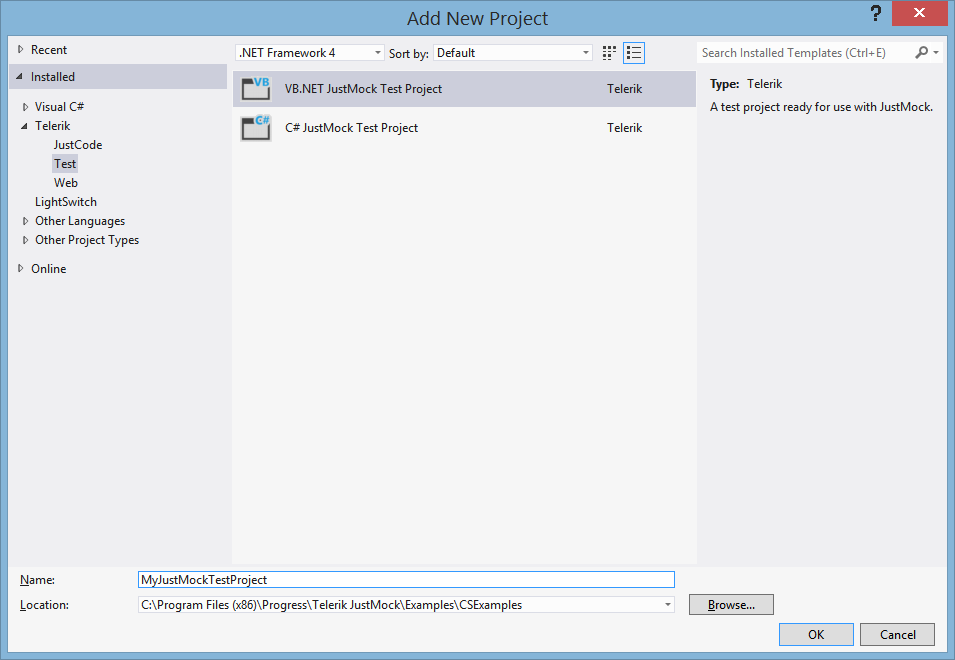
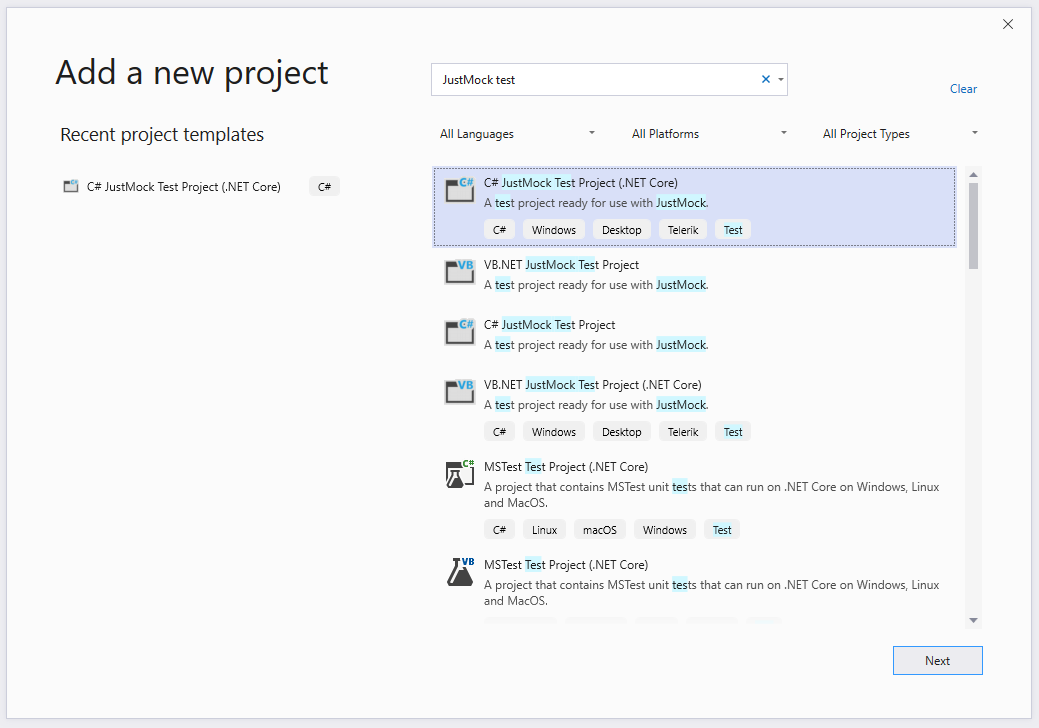
removed the old pic and add a new for vs2019

diff --git a/getting-started/using-telerik-justmock-in-your-test-project.md b/getting-started/using-telerik-justmock-in-your-test-project.md
@@ -26,7 +26,7 @@ This topic demonstrates how to use __Telerik® JustMock__ in a new test project 
 1. Select the Test Project template or search for it by typing "JustMock test". After that select the Test Project template and click OK.
 
 	**Figure 2: Choose the JustMock Test Project template**  
-	![JustMock Test Project Template](images/ProjectTemplate1.png)
+	![JustMock Test Project Template](images/ProjectTemplate.png)
 
 1. Using the default *JustMock Test Project* template, you can start writing JustMock tests right away. 
 	
